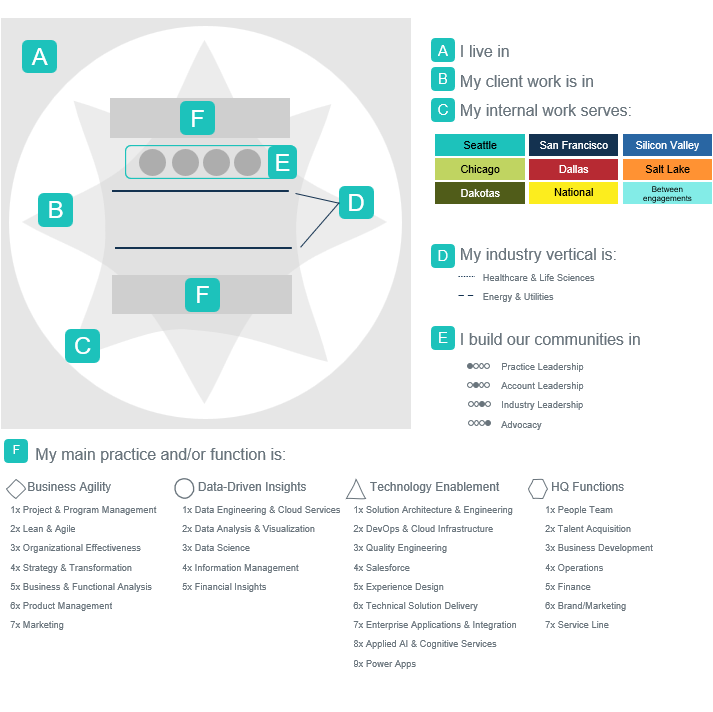
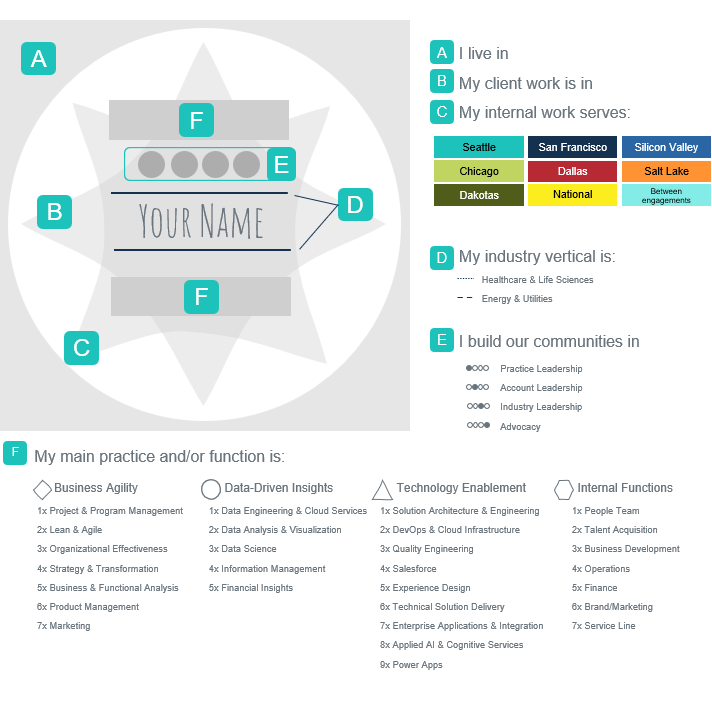
Language and key updates

diff --git a/app.py b/app.py
@@ -12,13 +12,13 @@ live_dict = {"Seattle": "#1DC2BB",
                "Salt Lake": "#FF9233",
                "Chicago": "#C0D461",
                "Dallas": "#B72A33",
-               "Dakotas": "#FCED1E"}
+               "Dakotas": "#6E5577"}
 role_dict = {"Seattle": "#1DC2BB",
              "San Francisco": "#143250",
              "Silicon Valley": "#2966A3",
              "Chicago": "#C0D461",
              "Dallas": "#B72A33",
-             "National": "#FCED1E", 
+             "National": "#FCED1E",
              "Between engagements": "#83ECE7"}
 service_line_dict = {"Data Analysis & Visualization": ["DDI",1],
                 "Data Science": ["DDI",2],
@@ -47,11 +47,15 @@ inter_func_dict = {"People Team":1,
                    "Operations":4,
                    "Finance": 5,
                    "Brand/Marketing":6 ,
-                   "Service Line/Industry Leader": 7,
-                   "Practice Leadership": 8, 
-                   "Account Leadership": 9,
-                   "Industry Leadership": 10, 
-                   "Advocacy":11}
+                   "Service Line Support": 7,
+                   "Industry Vertical Support": 7,
+                   "Practice Director": 8, 
+                   "Practice Manager": 8, 
+                   "Account Director": 9,
+                   "Account Manager": 9,
+                   "Industry Director": 10, 
+                   "Industry Manager": 10, 
+                   "Advocate Director":11}
 industry_dict = {"None": "",
                  "Healthcare & Life Sciences": "2", 
                  "Energy & Utilities": "6",
@@ -74,14 +78,14 @@ class AutoStart(param.Parameterized):
                          "At Unify,", pn.widgets.RadioButtonGroup.from_param(self.param.selected, button_type="success"))
 
 class ConsultantQuestions(AutoStart):
-    client_input = param.Selector(objects=list(role_dict.keys()))
-    practice_input = param.Selector(objects=list(service_line_dict.keys()))
+    client_input = param.Selector(objects=list(role_dict.keys())[:-2]+['Between engagements'])
+    practice_input = param.Selector(objects=sorted(list(service_line_dict.keys())))
     industry_input = param.Selector( objects=list(industry_dict.keys())[:3])
     
     def panel(self):
         return pn.Column("My client work is in", pn.widgets.RadioButtonGroup.from_param(self.param.client_input, button_type="success"), pn.layout.VSpacer(), \
                          "My primary practice is", pn.widgets.Select.from_param(self.param.practice_input, name=""), pn.layout.VSpacer(), \
-                         "My industry vertical is", pn.widgets.RadioButtonGroup.from_param(self.param.industry_input, button_type="success"))
+                         "If you specialize in one of our industry verticals, which one?", pn.widgets.RadioButtonGroup.from_param(self.param.industry_input, button_type="success"))
                          
     
     @param.output('result')
@@ -101,8 +105,8 @@ class InternalQuestions(AutoStart):
     internal_market_input = param.Selector(objects=list(role_dict.keys())[:-1])
    
     def panel(self):    
-        return pn.Column("My main function is", pn.widgets.Select.from_param(self.param.internal_func_input,name=""), pn.layout.VSpacer(), \
-                         "I support: ", pn.widgets.RadioButtonGroup.from_param(self.param.internal_market_input, button_type="success"))
+        return pn.Column("As an internal Unifier, which internal function do you work on?", pn.widgets.Select.from_param(self.param.internal_func_input,name=""), pn.layout.VSpacer(), \
+                         "I support ", pn.widgets.RadioButtonGroup.from_param(self.param.internal_market_input, button_type="success"))
     
     @param.output('result')
     def output(self):
@@ -117,19 +121,19 @@ class InternalQuestions(AutoStart):
         return internal_dict
 
 class HybridQuestions(AutoStart):
-    client_input = param.Selector(objects=list(role_dict.keys()))
-    practice_input = param.Selector(objects=list(service_line_dict.keys()))
+    client_input = param.Selector(objects=list(role_dict.keys())[:-2]+['Between engagements'])
+    practice_input = param.Selector(objects=sorted(list(service_line_dict.keys())))
     industry_input = param.Selector(objects= list(industry_dict.keys())[:3])
-    internal_func_input = param.Selector(objects=["No"]+list(inter_func_dict.keys())[:7])
-    hybrid_role_input = param.ListSelector(objects=list(inter_func_dict.keys())[7:])
+    internal_func_input = param.Selector(objects=["None"]+list(inter_func_dict.keys())[:8])
+    hybrid_role_input = param.ListSelector(objects=list(inter_func_dict.keys())[8:])
     internal_market_input = param.Selector(objects=list(role_dict.keys())[:-1])
     
     def panel(self): 
         return pn.Column("My client work is in", pn.widgets.RadioButtonGroup.from_param(self.param.client_input, button_type="success"), pn.layout.VSpacer(), \
                          "My primary practice is", pn.widgets.Select.from_param(self.param.practice_input, name=""), pn.layout.VSpacer(), \
-                         "My industry vertical is", pn.widgets.RadioButtonGroup.from_param(self.param.industry_input, button_type="success"), pn.layout.VSpacer(),\
-                         "Do you work on an internal function?", pn.widgets.Select.from_param(self.param.internal_func_input, name=""), pn.layout.VSpacer(),
-                         "I serve in ", pn.widgets.CheckButtonGroup.from_param(self.param.hybrid_role_input, button_type="success"), pn.layout.VSpacer(), \
+                         "If you specialize in one of our industry verticals, which one?", pn.widgets.RadioButtonGroup.from_param(self.param.industry_input, button_type="success"), pn.layout.VSpacer(),\
+                         "As an internal Unifier, which internal function do you work on?", pn.widgets.Select.from_param(self.param.internal_func_input, name=""), pn.layout.VSpacer(),
+                         "As a consultant, I am also a ", pn.widgets.CheckButtonGroup.from_param(self.param.hybrid_role_input, button_type="success"), pn.layout.VSpacer(), \
                          "My internal role supports ", pn.widgets.RadioButtonGroup.from_param(self.param.internal_market_input, button_type="success"))
     
     @param.output('result')
@@ -184,13 +188,13 @@ class DrawSVG(AutoStart):
         #hybrid role glyphs
         if internal_role:
             fill_op_list = [0.0, 0.0, 0.0, 0.0]
-            if "Practice Leadership" in internal_role: 
+            if "Practice Director" in internal_role or "Practice Manager" in internal_role:
                 fill_op_list[0] = 1.0
-            if "Account Leadership" in internal_role:
+            if "Account Director" in internal_role or "Account Manager" in internal_role:
                 fill_op_list[1] = 1.0 
-            if "Industry Leadership" in internal_role:
+            if "Industry Director" in internal_role or "Industry Manager" in internal_role:
                 fill_op_list[2] = 1.0 
-            if "Advocacy" in internal_role:
+            if "Advocate Director" in internal_role:
                 fill_op_list[3] = 1.0 
 
             for i in range(4):
